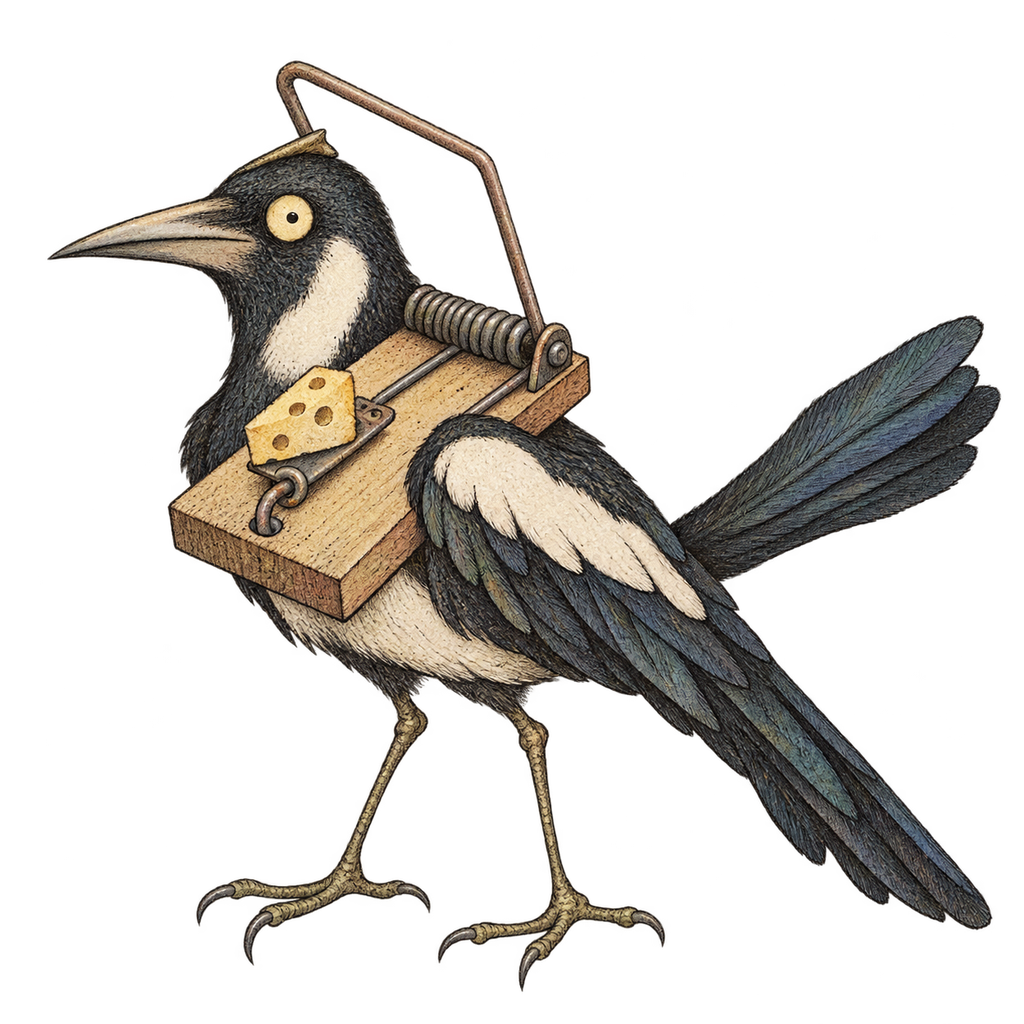
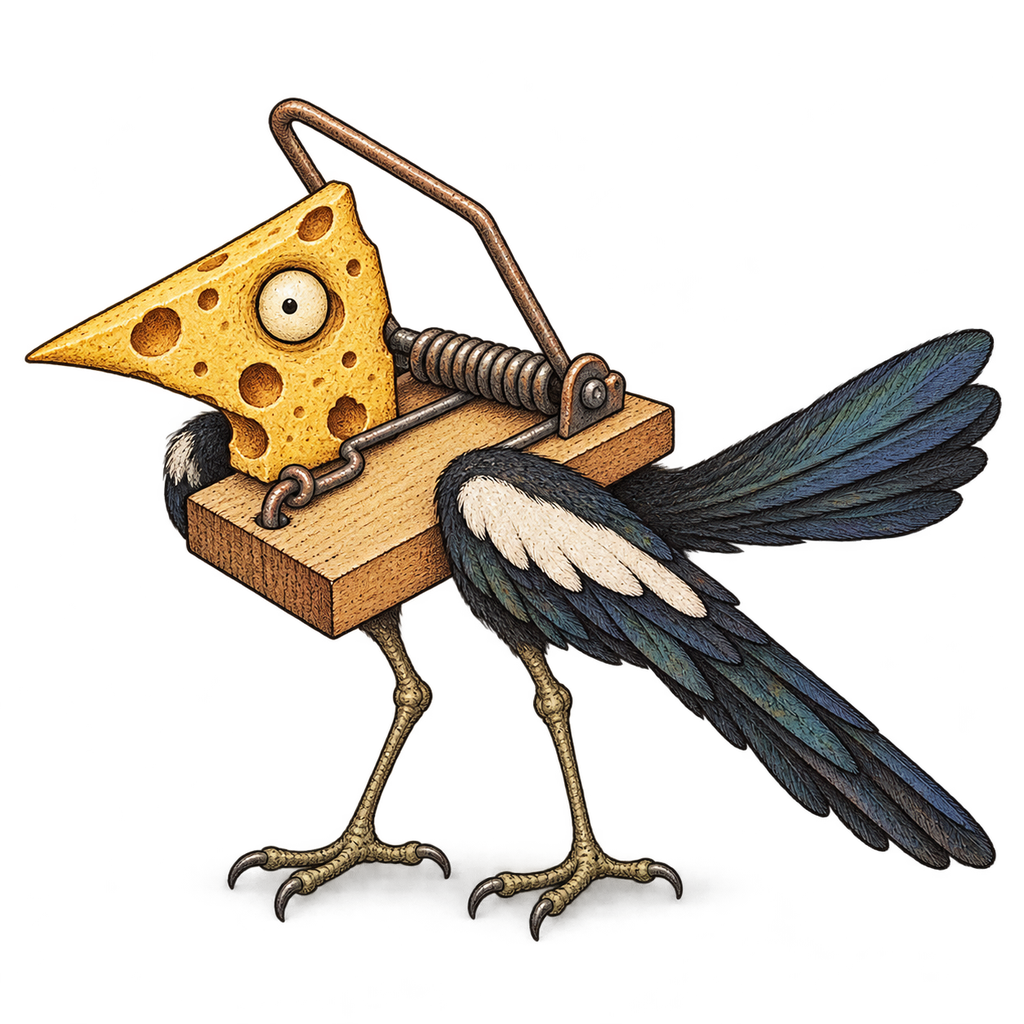
Reimagine Mousetrap Magpie as trap and cheese anatomy

diff --git a/icecreamcone/design/source/build_requests.py b/icecreamcone/design/source/build_requests.py
@@ -608,8 +608,13 @@ POCKET = [
      "its tail, the N-E-S-W cross below like perched feet on a little roof ridge.",
      "Turn into the wind as it changes."),
     ("mousetrapmagpie", "The Mousetrap Magpie",
-     "A wooden spring mousetrap as a flat body with the snapping bar as a crest, a magpie's black "
-     "and white head and long tail, a bit of cheese it is very proud of.",
+     "The mousetrap itself is the whole torso: a flat honey-brown wooden plank with a coiled "
+     "spring and snapping metal bar built into it. A yellow cheese wedge forms its head and "
+     "left-pointing beak, with round cheese holes and one round staring eye set in its side. "
+     "The spring bar rises as its crest. Two thin bird legs grow from the wood below, small "
+     "black-and-white wing tufts from its sides, and a long blue-black magpie tail from the "
+     "rear. No feathered torso or conventional magpie head beneath the trap, and no separate "
+     "cheese accessory sitting on top.",
      "Grab the shiny things without setting itself off."),
     ("hatboxhoopoe", "The Hatbox Hoopoe",
      "A round striped hatbox with its lid lifting like a crest of hoopoe feathers, a long thin "

diff --git a/icecreamcone/design/image-requests.md b/icecreamcone/design/image-requests.md
@@ -700,7 +700,7 @@ Children's picture-book illustration in the style of Arnold Lobel's 1971 book Th
 - **Status:** delivered
 
 ```text
-Children's picture-book illustration in the style of Arnold Lobel's 1971 book The Ice-Cream Cone Coot and Other Rare Birds: fine brown-black pen-and-ink line with delicate crosshatching and stippling, soft transparent watercolour washes in a slightly faded early-1970s print palette (lemon and mustard yellow, olive and sage green, dusty pink and mauve, strawberry pink, ochre, slate blue, warm grey), on cream paper with visible grain. Whimsical, gentle and slightly eerie, dreamlike mood. No text, no lettering, no watermark, no border, no UI. The bird IS the object: a real, clearly recognisable everyday object that has come alive as a bird, with a round staring eye with a dot pupil, a long pointed beak, little wings or plumes, and long, thin, knobbly bird legs ending in spiky claws, growing naturally out of it, so the object's shape still reads at a glance. Calm and a little odd, not a cartoon mascot: no human expression, no smile. A wooden spring mousetrap as a flat body with the snapping bar as a crest, a magpie's black and white head and long tail, a bit of cheese it is very proud of. Full-body portrait of the bird alone, standing in a three-quarter view facing left, filling about 80% of a square frame, centred, with a clean silhouette that still reads at 96 px. Only a small soft shadow under the feet. Transparent background (PNG with alpha). If transparency is not possible, use a flat pure magenta #FF00FF background with nothing else on it and no cast shadow; it is keyed out on integration. For the drawing style and the way the object becomes a bird, look at the book's birds in https://raw.githubusercontent.com/hoai2k/mini/main/icecreamcone/reference/endpapers-all-birds.jpg .
+Children's picture-book illustration in the style of Arnold Lobel's 1971 book The Ice-Cream Cone Coot and Other Rare Birds: fine brown-black pen-and-ink line with delicate crosshatching and stippling, soft transparent watercolour washes in a slightly faded early-1970s print palette (lemon and mustard yellow, olive and sage green, dusty pink and mauve, strawberry pink, ochre, slate blue, warm grey), on cream paper with visible grain. Whimsical, gentle and slightly eerie, dreamlike mood. No text, no lettering, no watermark, no border, no UI. The bird IS the object: a real, clearly recognisable everyday object that has come alive as a bird, with a round staring eye with a dot pupil, a long pointed beak, little wings or plumes, and long, thin, knobbly bird legs ending in spiky claws, growing naturally out of it, so the object's shape still reads at a glance. Calm and a little odd, not a cartoon mascot: no human expression, no smile. The mousetrap itself is the whole torso: a flat honey-brown wooden plank with a coiled spring and snapping metal bar built into it. A yellow cheese wedge forms its head and left-pointing beak, with round cheese holes and one round staring eye set in its side. The spring bar rises as its crest. Two thin bird legs grow from the wood below, small black-and-white wing tufts from its sides, and a long blue-black magpie tail from the rear. No feathered torso or conventional magpie head beneath the trap, and no separate cheese accessory sitting on top. Full-body portrait of the bird alone, standing in a three-quarter view facing left, filling about 80% of a square frame, centred, with a clean silhouette that still reads at 96 px. Only a small soft shadow under the feet. Transparent background (PNG with alpha). If transparency is not possible, use a flat pure magenta #FF00FF background with nothing else on it and no cast shadow; it is keyed out on integration. For the drawing style and the way the object becomes a bird, look at the book's birds in https://raw.githubusercontent.com/hoai2k/mini/main/icecreamcone/reference/endpapers-all-birds.jpg .
 ```
 
 ### IC-N08 · The Hatbox Hoopoe
